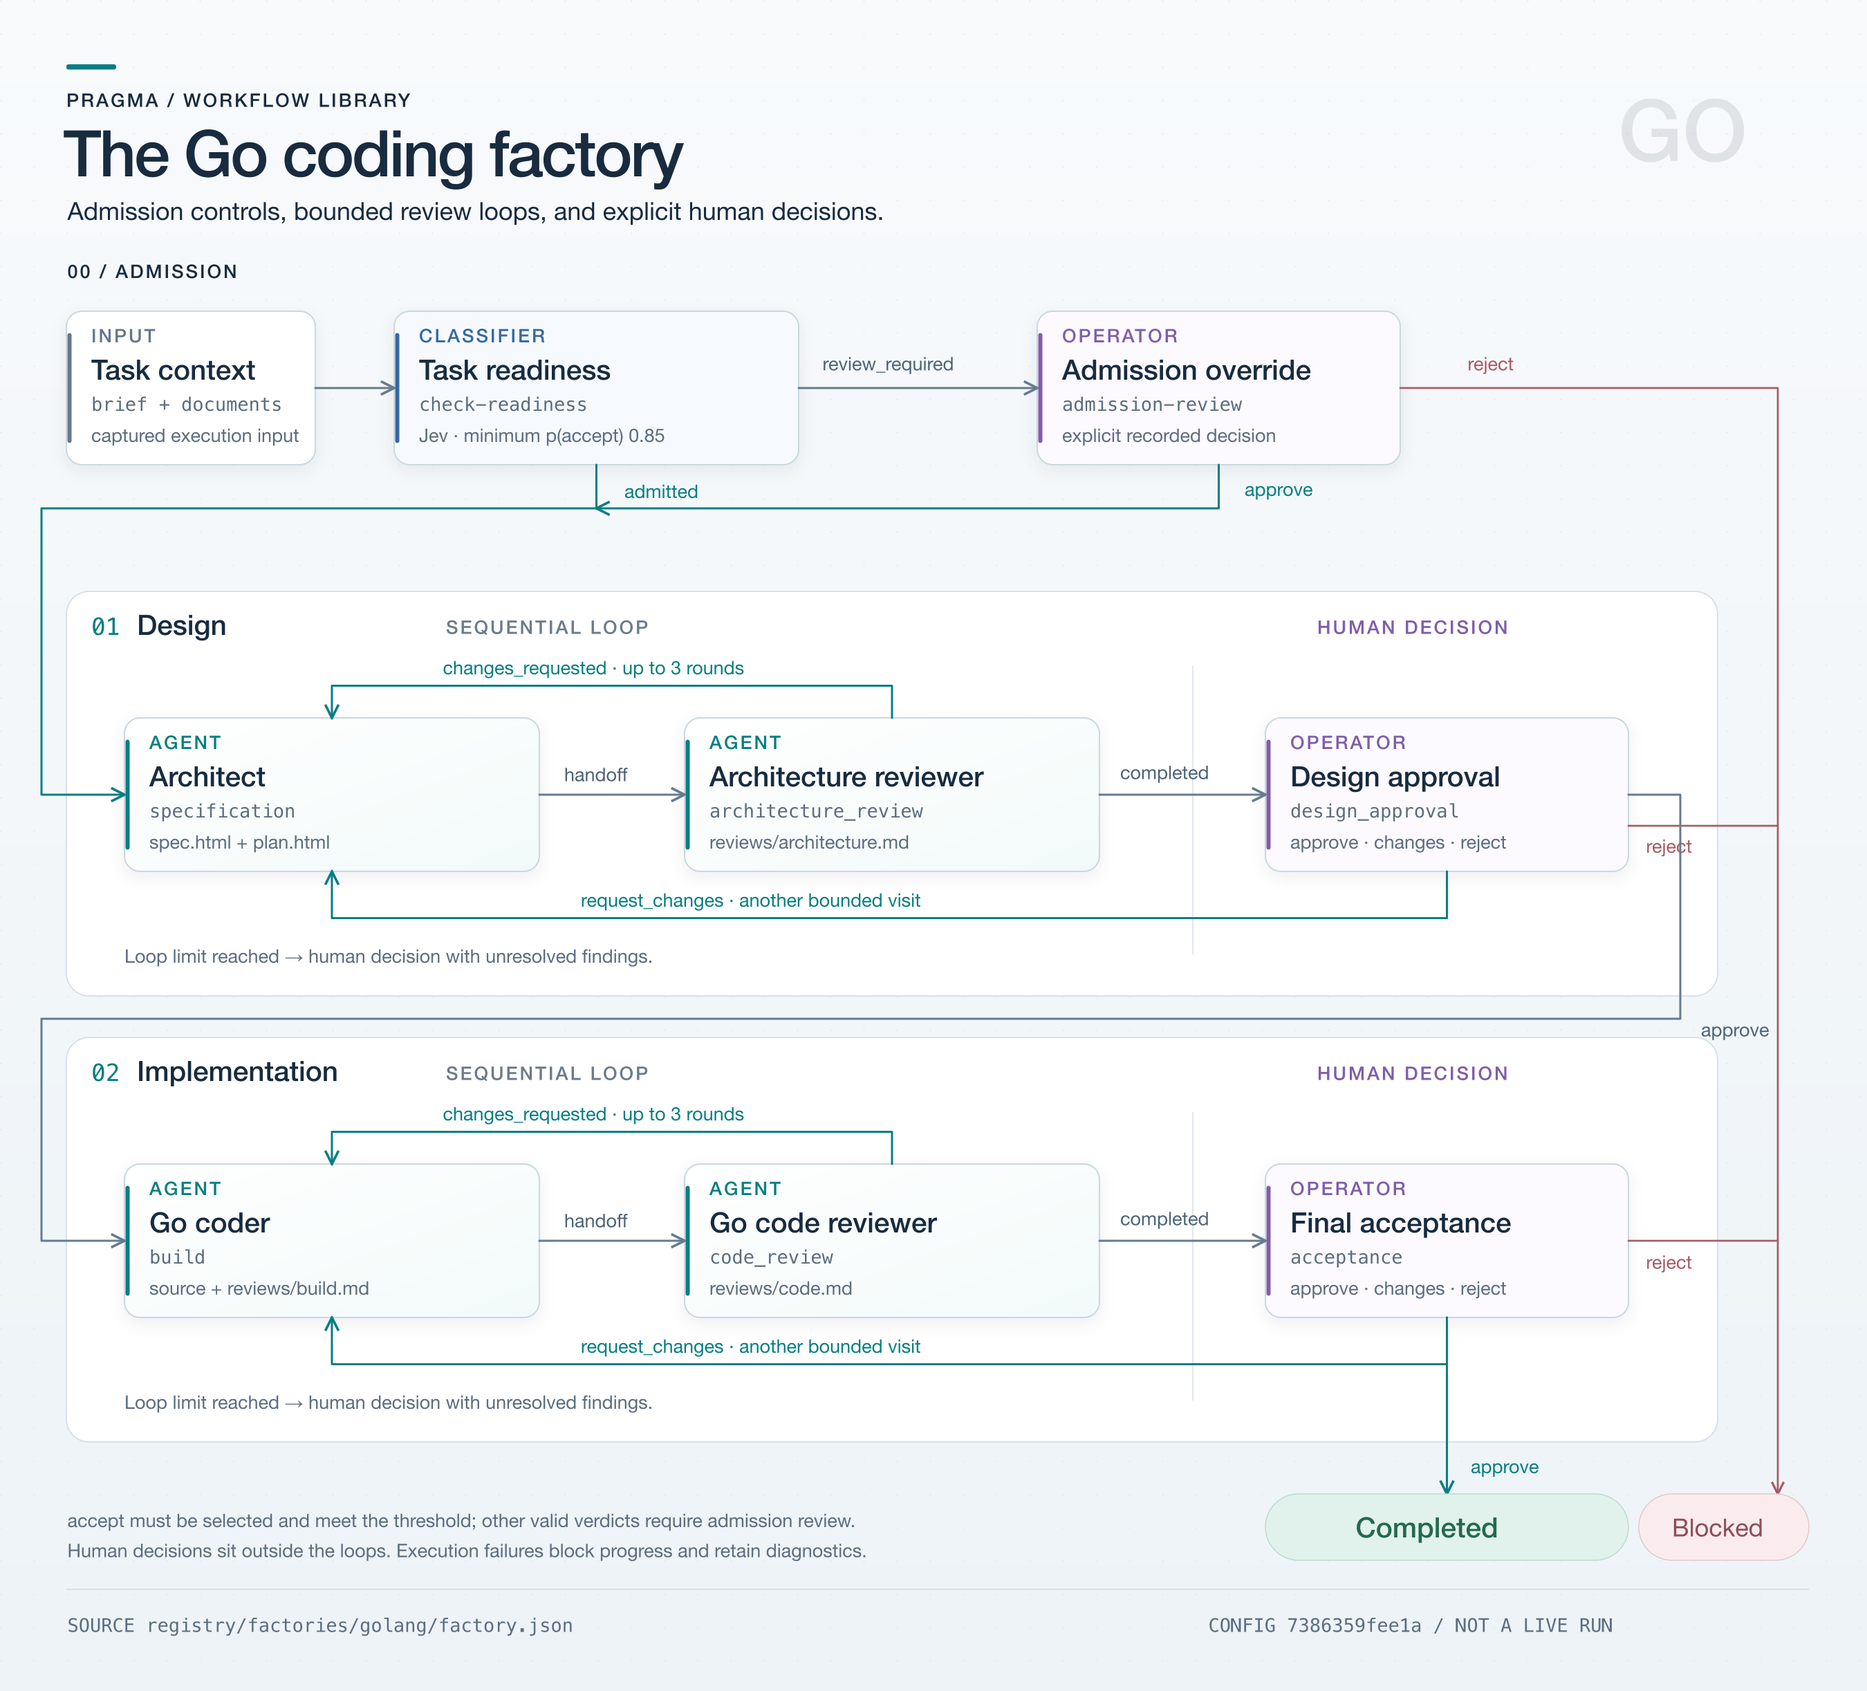
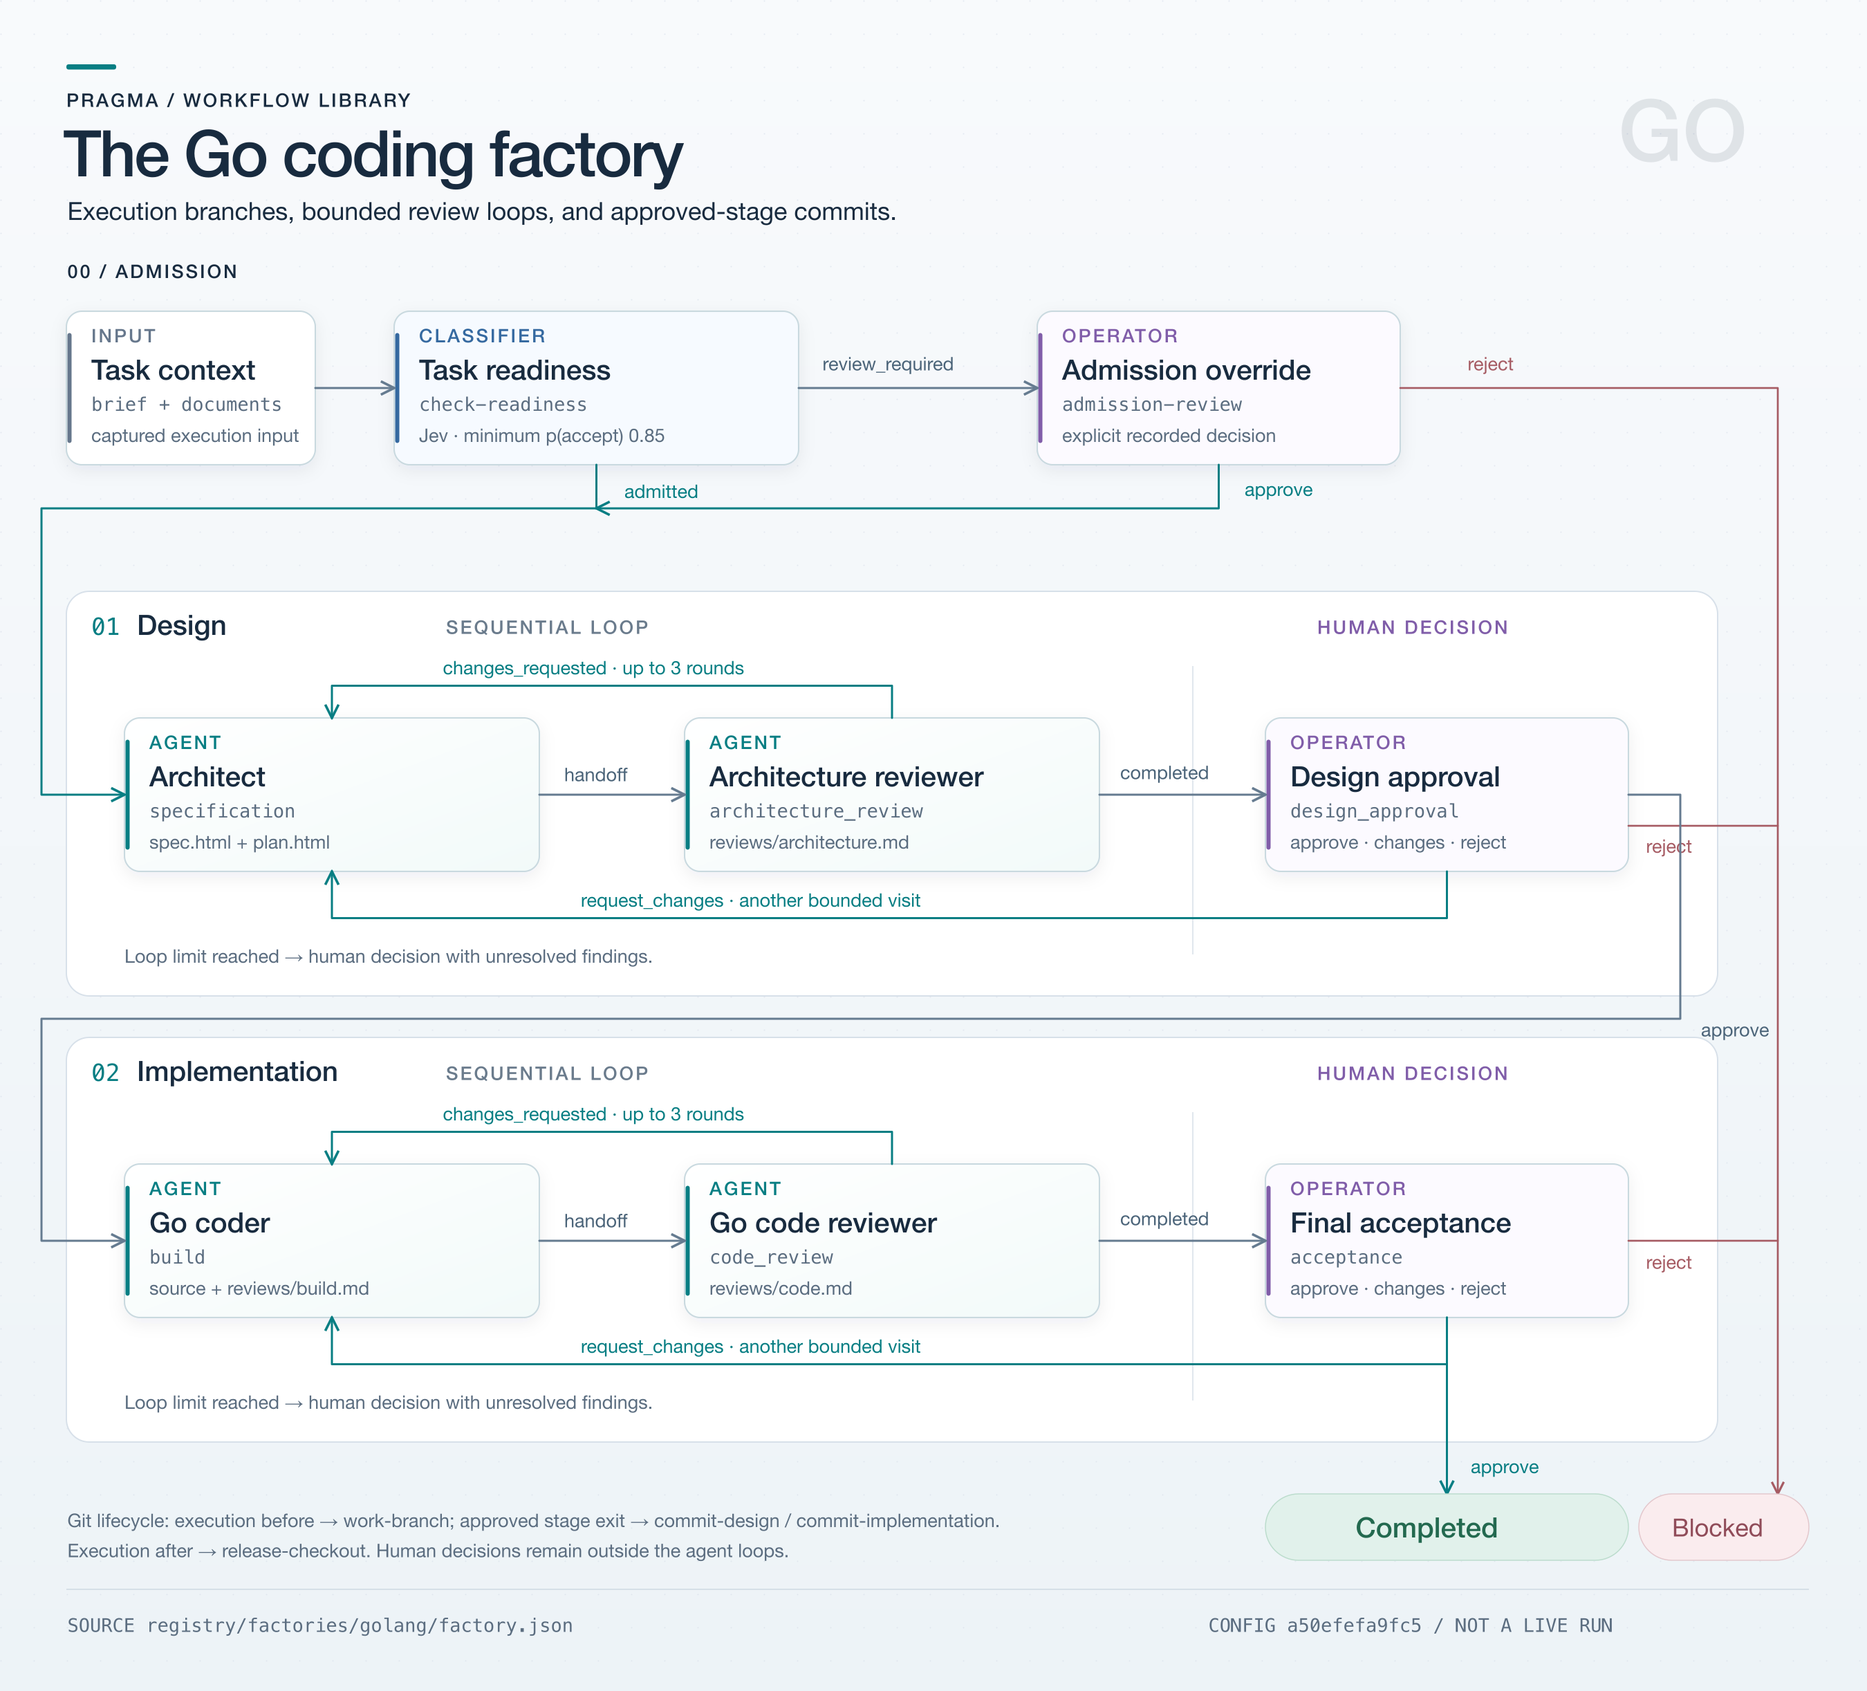
git scripts

diff --git a/factories/golang/README.md b/factories/golang/README.md
@@ -1,8 +1,8 @@
 # Go coding factory
 
-[factory.json](factory.json) defines the complete Go coding workflow: enforced readiness admission, architect, architecture review, human design approval, Go implementation, code review, and human acceptance. The design and implementation stages each allow up to three architect/reviewer or coder/reviewer rounds before escalating unresolved findings to the human decision. A satisfactory review reaches the same decision sooner. Human `request_changes` starts another bounded set of rounds. Review findings route back to the relevant agent through the prior-result handoff. The agents and their native Pi profiles live in [the agent library](../../agents/README.md).
+[factory.json](factory.json) defines the Go coding workflow with an execution branch, approved-stage commits, and checkout release: enforced readiness admission, architect, architecture review, human design approval, Go implementation, code review, and human acceptance. The design and implementation stages each allow up to three architect/reviewer or coder/reviewer rounds before escalating unresolved findings to the human decision. A satisfactory review reaches the same decision sooner. Human `request_changes` starts another bounded set of rounds. Review findings route back to the relevant agent through the prior-result handoff. The agents and their native Pi profiles live in [the agent library](../../agents/README.md).
 
-The config belongs in the **application project root** for a run. Copy it there and change each `packages[].path` to the installed package directory, or use [the GO-001 eval preparation script](../../../evals/factory-go/prepare-go-001.py) as an example. Paths relative to `factory.json` resolve inside the application project, so the library's own `../../agents/...` and `../../classifiers/...` values cannot be copied unchanged. Do not run `factory exec -c` against this library file unless the library directory itself is the intended work area.
+The config belongs in the **application project root** for a run. Copy it there and change each `packages[].path` to the installed package directory, or use [the GO-001 eval preparation script](../../../evals/factory-go/prepare-go-001.py) as an example. Also change the root branch-hook and stage commit-hook script arguments to the installed [branch utility](../../scripts/git-work-branch.py) and [commit utility](../../scripts/git-commit.py), preferably using absolute paths. The eval preparation script illustrates package-path resolution only; hook script paths and Git prerequisites still need setup. Paths relative to `factory.json` resolve inside the application project, so the library's own `../../agents/...` and `../../classifiers/...` values cannot be copied unchanged. Do not run `factory exec -c` against this library file unless the library directory itself is the intended work area.
 
 From the application root, run `factory exec "Your request"`, then inspect `factory ls`, `factory EXECUTION-ID`, and `factory inbox`. Answer human decisions with `factory answer REQUEST-ID OUTCOME --reason "..."`. Agents communicate through the [thread MCP runtime](../../../controls/adapters/README.md) and submit explicit `step_result` messages. The example requires files only for its listed `outputs_on` outcomes, so a blocker can retain its cause without producing success artifacts.
 
@@ -39,3 +39,35 @@ factory answer REQUEST-ID reject --reason "The task needs revision."
 Approval is an explicit recorded override, not another Jev assessment. Its reason reaches the architect through accepted history. To obtain a new automated assessment of amended input, reject and create a new execution with the updated input. The architect also receives the original Jev request and response through input bindings. Provider failures remain execution errors, not admission verdicts.
 
 Admission does not replace design approval or final acceptance, and does not change the existing review loop limits. The classifier is a package within this factory, not a separate factory.
+
+## Execution branch
+
+The root `hooks.before` runs the [branch utility](../../skills/git-work-branch/SKILL.md) before admission or any agent starts. It creates and checks out `execution/<execution_id>` from the current `HEAD`, then reserves that checkout for this execution. Retrying preparation verifies its receipt and preserves existing work.
+
+The application directory must be the Git repository root with an existing commit and a clean index/worktree, including untracked files. Commit the project-local `factory.json` and intended input files before execution; ignore secrets and generated runtime files. Python 3.9+ and Git must be available to the Factory service. This enables Git for this example factory, not for Controls generally.
+
+The root `hooks.after` releases the reservation after successful completion. It retains the branch and all changes; it neither switches back nor pushes or merges. Failure, rejection, or cancellation does not run this success hook and retains the reservation for inspection. See [branch recovery](../../skills/git-work-branch/SKILL.md) before explicitly releasing an interrupted execution.
+
+This is one reserved working checkout, not a worktree per execution. Another execution against the same checkout is refused until release. Independent checkouts can run concurrently. The next execution branches from whichever commit is then `HEAD`; select the intended base branch before starting it.
+
+## Commit boundaries
+
+Each stage has an `after` hook using the [commit utility](../../skills/git-commit/SKILL.md). Agents leave changes unstaged; the hook creates the commit only after the stage exits successfully through its human approval. Neither branch preparation nor release creates a commit.
+
+| Boundary | Configured snapshot | Why |
+|---|---|---|
+| Design exits after human approval | `spec.html`, `plan.html`, `reviews/architecture.md` | Captures the reviewed design after all revisions |
+| Implementation exits after final acceptance | Every nonignored project change (`--path .`) | Captures accepted work after both agents have finished |
+
+A reviewer returning `changes_requested` does not conclude the stage. Human feedback routed back into that stage also keeps it open. Neither should trigger a stage commit. A stage commit attributes successful agent invocations across its review history; it is not one commit per agent or review round. Failed and rejected stages do not run success hooks.
+
+The deterministic subjects are:
+
+```text
+docs(design): record approved specification and plan
+chore(implementation): record accepted work
+```
+
+Trailers identify the execution, hook invocation, stage, and participating agent instances with their visits and attempts. Retries reuse the hook invocation ID and recover an existing commit instead of duplicating it. No changed files produces a no-change receipt. `chore` deliberately avoids guessing whether an arbitrary task is a feature or fix.
+
+The implementation hook uses `--path .` so it can capture arbitrary source paths, additions, and deletions. This includes every nonignored project change; use repository ignore rules for credentials, binaries, caches, and runtime files, and avoid unrelated edits during an execution. Narrow the configured paths for a project when appropriate. The hooks cannot infer file ownership. Normal repository hooks, Git identity, and signing still apply. Configure those before starting the Factory service. See the [hook lifecycle](../../../controls/docs/hooks.md) for ordering and retry behavior.

diff --git a/README.md b/README.md
@@ -38,7 +38,7 @@ The standalone checks verify generated artifacts, references, example criterion 
 
 ## Use the Go coding factory
 
-Keep Factory Workflows and this repository outside the application. Place a complete `factory.json` in the application root. Start from [the Go factory definition](factories/golang/factory.json), then change `packages[].path` to paths for this checkout's agents and classifiers. A library-relative path such as `../../agents/architect` does not remain valid when copied into another project. `factory.json` has no `extends` mechanism.
+Keep Factory Workflows and this repository outside the application. Place a complete `factory.json` in the application root. Start from [the Go factory definition](factories/golang/factory.json), then change `packages[].path` and all hook script arguments to paths for this checkout's agents, classifiers, and Git utilities. This factory now requires a clean Git checkout with an initial commit; it creates an execution branch and commits after each approved stage. See [its Git lifecycle](factories/golang/README.md#execution-branch) before starting it. A library-relative path such as `../../agents/architect` does not remain valid when copied into another project. `factory.json` has no `extends` mechanism.
 
 From the application root:
 
@@ -57,7 +57,7 @@ The bundled Pi profiles currently default to OpenRouter. Provide the configured 
 
 ## Optional Git lifecycle skills
 
-[Git work branch](skills/git-work-branch/SKILL.md) and [Git commit](skills/git-commit/SKILL.md) are shared skills with deterministic Python utilities. Configure them as execution and stage hooks in a project's `factory.json`; the controller invokes the scripts without relying on an agent to remember lifecycle commands. Use an execution after hook to release the checkout reservation.
+The deterministic Git hook utilities live in [scripts/](scripts/): [branch preparation/release](scripts/git-work-branch.py) and [commits](scripts/git-commit.py). The [Git work branch](skills/git-work-branch/SKILL.md) and [Git commit](skills/git-commit/SKILL.md) skills document their use; the utilities do not depend on loading either skill. Configure them as execution and stage hooks in a project's `factory.json`; the controller invokes the scripts without relying on an agent to remember lifecycle commands. Use an execution after hook to release the checkout reservation.
 
 The committer generates a configured Conventional Commit subject and execution/multi-agent identity trailers without a model. It requires explicit commit paths, preserves repository hooks/signing, detects duplicate effects, and never publishes changes. Preparation requires a clean checkout and an existing commit. These optional utilities require Python 3.9+ and Git on a Unix host. Read the [Controls hook contract](../controls/docs/hooks.md) before enabling them. Agent bundles can link these canonical skills when Git guidance is useful; no skills are copied into agents automatically.
 

diff --git a/scripts/README.md b/scripts/README.md
@@ -1,0 +1,16 @@
+# Workflow utilities
+
+Standalone programs invoked by configured lifecycle hooks. Factories select these executables through `command` and `arguments`; no skill loading is involved.
+
+| Script | Responsibility | Hook boundary |
+|---|---|---|
+| [git-work-branch.py](git-work-branch.py) | Create/reserve an execution branch; release its checkout with `--release` | Execution `before` / `after` |
+| [git-commit.py](git-commit.py) | Commit selected paths with deterministic messages and participation trailers | Stage `after` |
+
+Both read the [versioned hook context](../../controls/docs/hooks.md#standard-input) from stdin. They require Python 3.9+ and Git on a Unix host. The commit utility also uses the repository's Git identity, hooks, and signing configuration.
+
+[Work-branch guidance](../skills/git-work-branch/SKILL.md) and [commit guidance](../skills/git-commit/SKILL.md) describe policy and recovery. These scripts own executable behavior; skills own instructions; factory configurations choose when to run them. Agent-specific launch helpers remain with the agents, and document-rendering scripts remain with their authoring skills.
+
+Script paths in hook arguments resolve from the application directory containing `factory.json`. Use installed absolute paths when Registry is outside that application. Controls executes the injected command without a Registry lookup. Hook scripts are not copied or hashed with the execution, so keep the selected Registry revision available for its lifetime.
+
+Verify behavior with `node --test tests/git-hooks.test.mjs tests/golang-factory.test.mjs` from the Registry root. The tests use disposable Git repositories.

diff --git a/skills/git-commit/SKILL.md b/skills/git-commit/SKILL.md
@@ -5,10 +5,10 @@ description: Create deterministic Conventional Commits at workflow hook boundari
 
 # Workflow commits
 
-Use [scripts/commit.py](scripts/commit.py) as a stage `after` hook, paired with the [execution branch utility](../git-work-branch/SKILL.md). A stage commit includes successful agent invocations across its loops and runs after its configured human gate. For concurrent work, prefer a stage hook so all writers have finished.
+Use [commit utility](../../scripts/git-commit.py) as a stage `after` hook, paired with the [execution branch utility](../git-work-branch/SKILL.md). A stage commit includes successful agent invocations across its loops and runs after its configured human gate. For concurrent work, prefer a stage hook so all writers have finished.
 
 ```json
-{"name":"commit-work","command":"python3","arguments":["/path/to/registry/skills/git-commit/scripts/commit.py","--type","chore","--scope","implementation","--description","complete implementation stage","--path","."]}
+{"name":"commit-work","command":"python3","arguments":["/path/to/registry/scripts/git-commit.py","--type","chore","--scope","implementation","--description","complete implementation stage","--path","."]}
 ```
 
 The script generates the Conventional Commit header from explicit arguments, without a model. Trailers identify the execution, hook invocation, stage or step, and each participating agent invocation. Participation is attribution, not proof of authorship, independent review, or human approval. Use the [Conventional Commits skill](../conventional-commits/SKILL.md) for choosing meaningful types and descriptions when authoring configuration.

diff --git a/skills/git-work-branch/SKILL.md b/skills/git-work-branch/SKILL.md
@@ -5,10 +5,10 @@ description: Prepare and verify an execution work branch using the shared Git ho
 
 # Execution work branch
 
-Use [scripts/prepare.py](scripts/prepare.py) as an execution `before` hook. The controller invokes it deterministically; agents do not need to invoke it again.
+Use [branch utility](../../scripts/git-work-branch.py) as an execution `before` hook. The controller invokes it deterministically; agents do not need to invoke it again.
 
 ```json
-{"name":"work-branch","command":"python3","arguments":["/path/to/registry/skills/git-work-branch/scripts/prepare.py","--base","HEAD","--prefix","execution/"]}
+{"name":"work-branch","command":"python3","arguments":["/path/to/registry/scripts/git-work-branch.py","--base","HEAD","--prefix","execution/"]}
 ```
 
 The script reads version 1 hook context from stdin. It requires a clean, non-bare checkout and creates `<prefix><execution_id>` from the selected base. It records ownership and the starting commit under Git's common directory, outside tracked project files. Repeating the same invocation verifies its branch and returns the receipt; it never resets work. Unowned existing branches, another active execution on the checkout, or unexpected branch changes fail visibly. A completed prior execution may leave a clean checkout that can start another branch.
